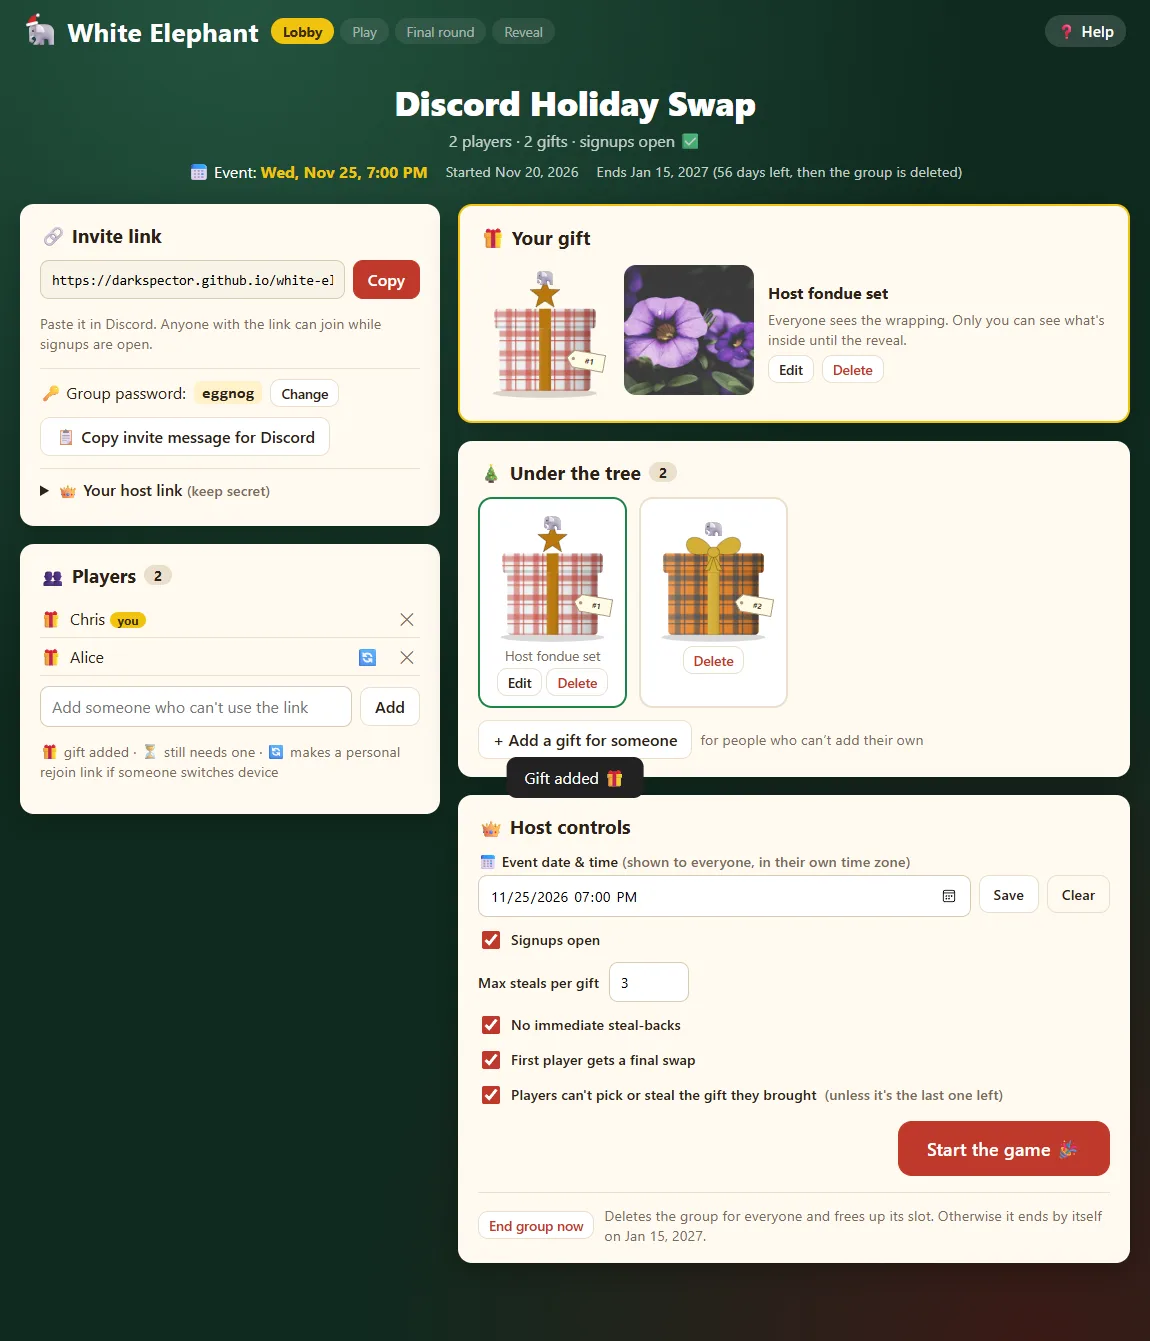
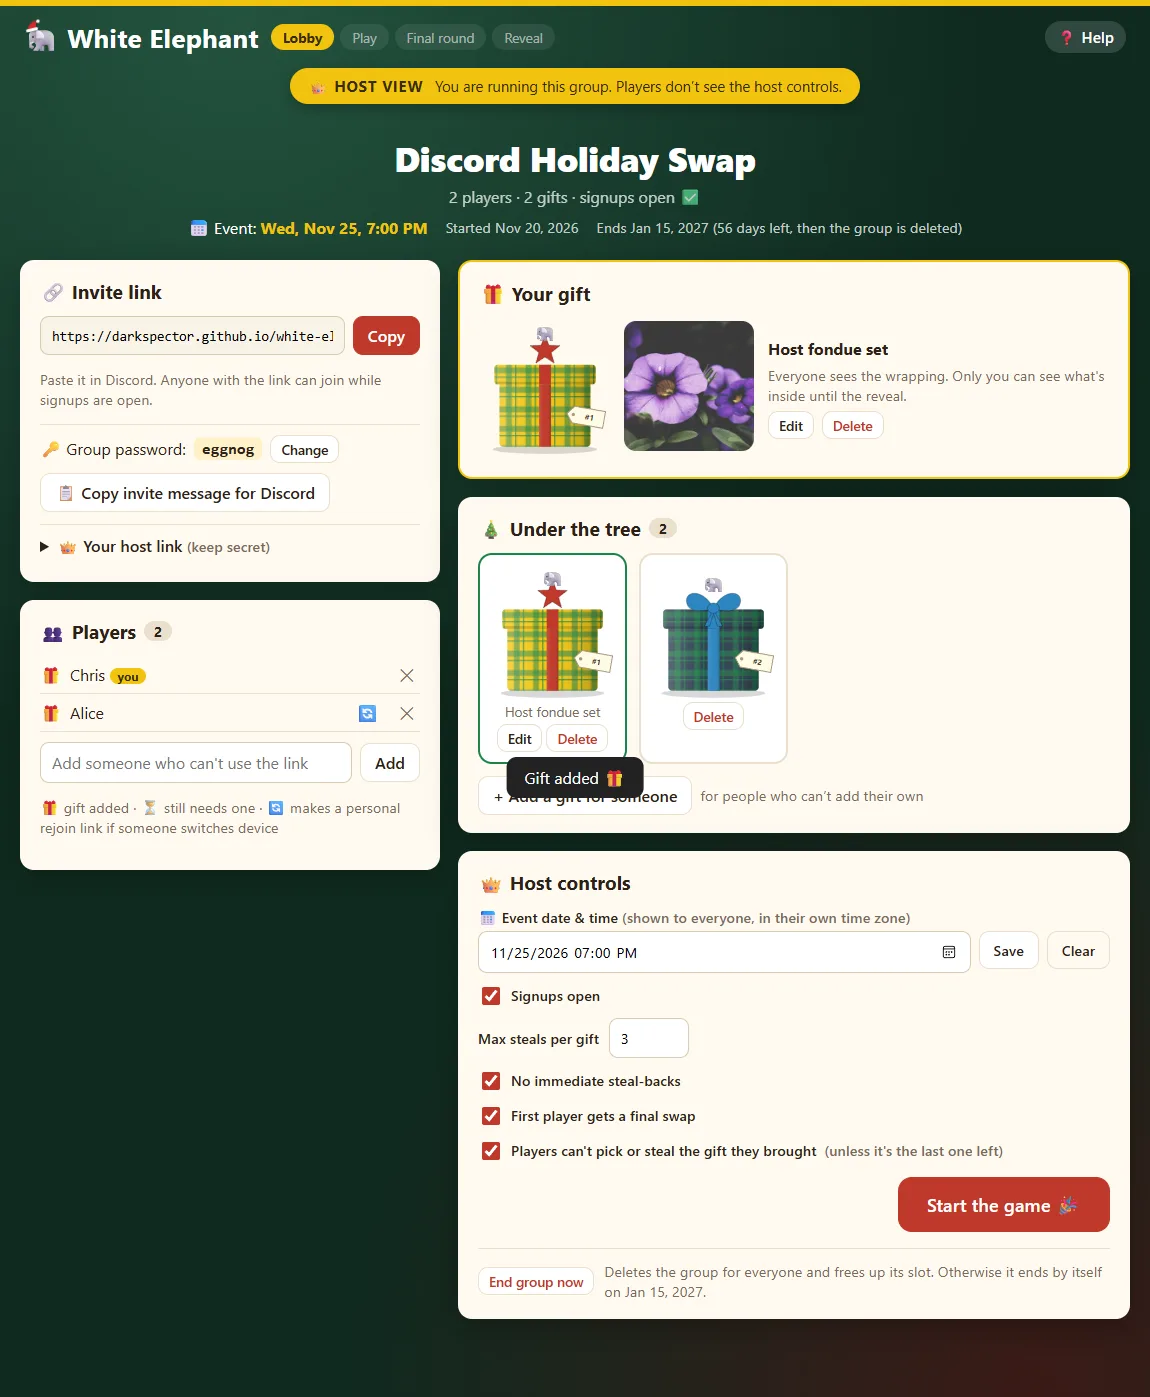
Gold HOST VIEW bar on the host's screens; refresh help screenshots

Changed region(s): [[0.0, 0.0, 1.0, 0.9478], [0.8217, 0.6421, 0.8826, 0.7032], [0.913, 0.6421, 0.9435, 0.7032]]

diff --git a/app.js b/app.js
@@ -287,6 +287,11 @@ function paint(html) {
   if (focus) $app.querySelector(`[data-keep][name="${focus}"]`)?.focus();
 }
 function setSteps(phase) {
+  const isHost = !!(phase && S && S.group.is_host);
+  document.body.classList.toggle('is-host', isHost);
+  const rb = document.getElementById('rolebar');
+  rb.hidden = !isHost;
+  rb.innerHTML = isHost ? '<b>👑 HOST VIEW</b><span>You are running this group. Players don’t see the host controls.</span>' : '';
   const steps = [['lobby', 'Lobby'], ['play', 'Play'], ['final', 'Final round'], ['reveal', 'Reveal']];
   document.getElementById('steps').innerHTML = phase
     ? steps.map(([k, l]) => `<span class="${phase === k ? 'on' : ''}">${l}</span>`).join('') +
@@ -358,6 +363,7 @@ function renderHelp() {
       <h3>2. Get everyone into the lobby</h3>
       ${shot('host-lobby', 'The host lobby: invite link, players, your gift and the host controls')}
       <ul>
+        <li><b>Gold "HOST VIEW" bar.</b> It appears at the top of every screen while you are the host. Players never see it.</li>
         <li><b>Invite link.</b> Copy it, or use "Copy invite message for Discord", which writes the invitation for you.</li>
         <li><b>Your host link.</b> Under "👑 Your host link (keep secret)". Save it somewhere private. It makes any browser the host, so it is how you get back in from another device. Don't share it.</li>
         <li><b>Players list.</b> 🎁 means a gift is added, ⏳ means still waiting. Use ✕ to remove someone, and 🔄 to make a personal rejoin link for a player who switched device.</li>

diff --git a/styles.css b/styles.css
@@ -323,3 +323,8 @@ body.big .trk-chain .chip { font-size: 1.05rem; }
 .help .shot figcaption { font-size: .85rem; color: var(--muted); margin-top: 6px; text-align: center; }
 .help .faq dt { font-weight: 700; margin-top: 14px; }
 .help .faq dd { margin: 4px 0 0; line-height: 1.5; }
+
+/* Host view marker */
+body.is-host { border-top: 6px solid var(--gold); }
+.rolebar { display: flex; flex-wrap: wrap; gap: 4px 12px; justify-content: center; align-items: center; margin: 0 auto 14px; padding: 8px 18px; width: fit-content; max-width: calc(100% - 40px); border-radius: 999px; background: var(--gold); color: #3a2c00; font-size: .92rem; box-shadow: 0 4px 14px rgba(0,0,0,.25); }
+.rolebar b { letter-spacing: .06em; }

diff --git a/index.html b/index.html
@@ -18,6 +18,7 @@
     <nav id="steps"></nav>
     <a class="help-link" href="#/help" title="How it works">❓ Help</a>
   </header>
+  <div id="rolebar" class="rolebar" hidden></div>
   <main id="app"><div class="loading">Loading…</div></main>
   <div id="modal" class="modal" aria-modal="true" role="dialog"></div>
   <div id="toast" class="toast"></div>
